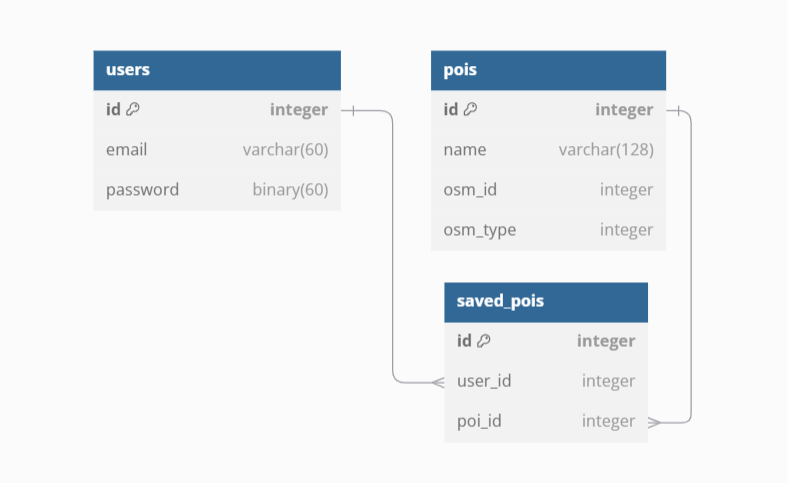
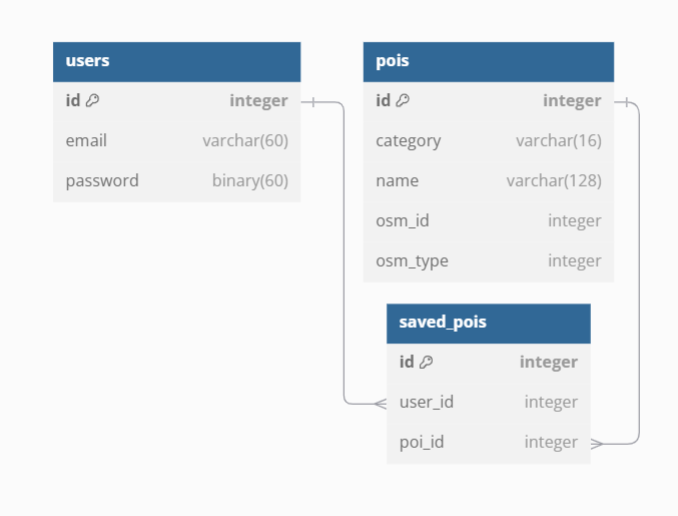
proposal: add missing mockups, installation, more future plans

diff --git a/README.md b/README.md
@@ -4,6 +4,23 @@
 
 Hike & Seek aims to encourage local exploration and responsible hiking, and foster an appreciation for users' local ecosystems by helping users find places for outdoor recreation and educating users about the wildlife they may find there.
 
+## Installation
+
+1. Install [PostgreSQL](https://www.postgresql.org/download/)
+2. Create a new postgres database to store Hike & Seek's data
+2. Install [Nodejs](https://nodejs.org/en)
+3. Clone this repository and [the repository for the API](https://github.com/egarand/bstn-capstone-api)
+4. For the front end repository (you are here):
+    1. Copy `.env.sample`, rename it to `.env`, and make sure each variable is set how you need it. `VITE_API_URL` will need to match the port you set for the API.
+    2. `npm install`
+    3. `npm run dev`
+5. For the API repository:
+    1. Copy `.env.sample`, rename it to `.env`, and make sure each variable is set how you need it. Make sure the ones prefixed `DB_` match your local database set up.
+    2. `npm install`
+    3. `npm run db:migrate`
+    4. `npm run db:seed`
+    5. `npm run dev`
+
 ### Problem Space
 
 Many individuals, particularly those in urban areas, experience a disconnect from natural spaces and a lack of knowledge about local ecosystems. This gap in understanding diminishes outdoor experiences and makes it hard to find those outdoor experiences to begin with. Unless you already know a good spot to hike or camp, it can be a struggle to find a place to go - and many small local hiking trails and campgrounds don't have an online presence, which makes them nigh-impossible for a beginner to find. Additionally, without knowledge of the kinds of wildlife they may encounter, an aspiring outdoorman misses valuable educational opportunities, and may even inadvertently harm wildlife or their habitats.
@@ -22,7 +39,6 @@ Many individuals, particularly those in urban areas, experience a disconnect fro
 - As a user, I want to be able to find trails and campgrounds close to any given location.
 - As a user, I want to learn about wildlife I can encounter at a given trail or campground.
 - As a user, I want to filter what iconic taxa (broad, well-known groups of wildlife) are displayed for each location.
-- As a user, I want to be able to save or print a sightings checklist of wildlife from a location
 
 - As a user, I want to be able to create an account to manage natural spaces I want to visit.
 - As a user, I want to be able to login to my account to manage natural spaces I want to visit.
@@ -66,8 +82,6 @@ Many individuals, particularly those in urban areas, experience a disconnect fro
   - View more details about a trail/campground/other point of interest
 - View an organism
   - View more details about a given species
-- Save/print a sightings checklist
-  - From a trail/point of interest, get a printable checklist of species you may see there.
 - Manage bookmarked trails
   - Logged in users: view and manage a list of saved points of interest
 - Contribute
@@ -87,28 +101,16 @@ Many individuals, particularly those in urban areas, experience a disconnect fro
 ![](./mockups/find-trails.png)
 
 #### View & save a trail
-*TODO*
 ![](./mockups/view-trail.png)
 
-#### View an organism
-*TODO*
-![](./mockups/view-organism.png)
-
-#### Save/print a sightings checklist
-*TODO*
-![](./mockups/checklist.png)
+#### View a species
+![](./mockups/view-species.png)
 
 #### Contribute
-*TODO*
-![](./mockups/view-organism.png)
+![](./mockups/contribute.png)
 
-#### Register
-*TODO*
-![](./mockups/register.png)
-
-#### Login
-*TODO*
-![](./mockups/login.png)
+#### Register/Log In
+![](./mockups/auth.png)
 
 
 ### Data
@@ -123,13 +125,16 @@ Many individuals, particularly those in urban areas, experience a disconnect fro
 **`pois`**:
   - `id`: primary key, integer, auto-increment
   - `name`: varchar(128)
+  - `category`: varchar(16)
   - `osm_id`: integer
   - `osm_type`: integer
+	- unique constraint on (`osm_id`,`osm_type`)
 
 **`saved_pois`**:
   - `id`: primary key, integer, auto-increment
   - `user_id`: foreign key on `users.id`
   - `poi_id`: foreign key on `pois.id`
+	- unique constraint on (`user_id`,`poi_id`)
 
 ### Endpoints
 
@@ -210,12 +215,13 @@ Response:
 
 #### **GET /life**
 
-- Get a list of species that have previously been sighted within a radius of a certain location, within the current month of the year. Data pulled from iNaturalist.
+- Get a list of species that have previously been sighted within a geographic bounding box, within the current month of the year. Bounding box is enlarged to be minimum 5km across in both axes if necessary. Data pulled from iNaturalist.
 
 Parameters:
-- longitude: Location as a number
-- latitude: Location as a number
-- taxa: User-provided comma-separated list of iconic taxa to include in the results
+- north: The northern latitude of the bounding box to search.
+- south: The southern latitude of the bounding box to search.
+- west: The western longitude of the bounding box to search.
+- east: The eastern longitude of the bounding box to search.
 
 Response:
 ```
@@ -283,6 +289,7 @@ Parameters:
 - osm_id: PoI OSM identifier as a number
 - osm_type: The type that this PoI is represented as in Overpass. One of "node", "way", or "relation".
 - name: The name of this PoI
+- category: One of either "trail", "campground", or "reserve"; identifying what kind of PoI this is.
 - token: JWT used to identify the user saving the location.
 
 Response:
@@ -342,60 +349,56 @@ Response:
 - JWT auth
   - Before adding auth functionality, relevant API requests will be made using a fake user with id 1.
   - Auth functionality will be added after core features have been implemented.
-  - If user asks the site to remember them on login, JWT will be saved in localStorage; if not, it will be saved to sessionStorage; in either case, it is removed upon logout.
   - Add states for logged in that show different UI in relevant areas.
 
 ## Roadmap
 
-- Create client - Day 1
+- Create client
   - React project with routes & boilerplate pages
   - Set up Sass partials & accessibility enhancements
 
-- Create server - Day 1
+- Create server
   - Express project with routing, with placeholder 501 responses
   - Set up general middleware (cors, compression, etc)
   - Set up sanitization and validation for user-inputted data
 
-- Create database migrations - Day 1
-- Create seeds for fake user data - Day 1
+- Create database migrations
+- Create seeds for fake user data
   - One user account, plus a few saved points of interest
 
-- Feature: Home Page - Day 2
+- Feature: Home Page
   - Implement home page
 
-- Feature: Contribute Page - Day 2
+- Feature: Contribute Page
   - Implement contribute page
 
-- Feature: Find Trails - Day 3
+- Feature: Find Trails
   - Create GET /pois
   - Implement find trails page, including form & Leaflet map
   - Save most form contents in sessionStorage; iconic taxa choices in localStorage
 
-- Feature: View Trail Page - Day 4
+- Feature: View Trail Page
   - Create GET /pois/:osm_id
   - Create GET /life
   - Implement view trail page, including overview of seasonal animal sightings
 
-- Feature: View Organism Page - Day 5
+- Feature: View Organism Page
   - Create GET /life/:id
   - Implement view organism page
 
-- Feature: Sighting Checklist Page - Day 6
-  - Implement printable checklist page - shows name of PoI, month, and a list of animals randomly chosen from iconic taxa groups of user's choice
-
-- Feature: Manage Bookmarked Trails Page - Day 7
+- Feature: Manage Bookmarked Trails Page
   - Create GET /pois/saved
   - Implement manage bookmarks page, including a delete button for each bookmark and a link to view details.
 
-- Feature: Login - Day 8
+- Feature: Login
   - Create POST /users/login
   - Implement login page and form
 
-- Feature: Create account - Day 8
+- Feature: Create account
   - Create POST /users/register
   - Implement registration page and form
 
-- Feature: Implement JWT tokens - Day 9
+- Feature: Implement JWT tokens
   - Server: Update expected requests & responses on protected endpoints
   - Client: Local storage of JWT, include JWT with api calls
 
@@ -409,7 +412,11 @@ Response:
 
 ## Future Implementations
 
-- User authentication may be a future implementation, depending on time.
-- Forgot password & password change functionality.
+- Improve UX around bookmarking; the location details page should inform a logged in user if this PoI is in their bookmarks already and allow them to unbookmark it.
+- Optimize front-end API calls; implement a response caching system to reduce the number of calls made to the API, especially to proxy endpoints.
+- Include a printable Sightings Checklist page that displays a formatted list of randomly selected species for a given location; intended for people to bring with them on a trip to see how many of those species they can spot.
+- Improve UX around searching for locations; allow users to set the location by clicking the map, and by searching for an address.
+- Improve parsing of OSM data to include more/more useful featured tags on locations.
 - Get directions from a specified location to a given point of interest, when possible.
+- Forgot password & password change functionality.
 - Unit and Integration tests.
